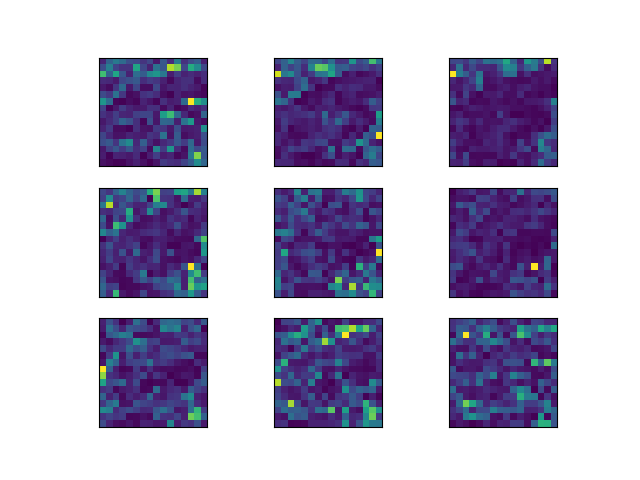
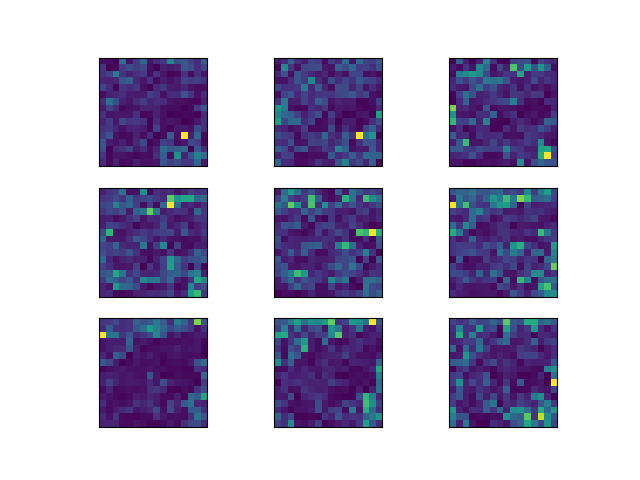
勾配角度の演算を変更

diff --git a/Question_61_70/my_answer_67.py b/Question_61_70/my_answer_67.py
@@ -15,7 +15,9 @@ gx[gx == 0] = 0.000001
 gy = gray2[2:H+2, 1:W+1] - gray2[0:H, 2:W+2]
 
 mag = np.sqrt(gx ** 2 + gy ** 2)
-ang = np.arctan(gy / gx) * (180/np.pi) + 90
+ang = np.arctan(gy / gx) * (180/np.pi)
+ang[ang < 0] += 360
+ang[ang > 180] -= 180
 
 # 3. 勾配角度を [0, 180]で9分割した値に量子化する。
 #    つまり、[0,20]には0、[20, 40]には1というインデックスを求める。

diff --git a/Question_61_70/my_answer_66.py b/Question_61_70/my_answer_66.py
@@ -12,7 +12,9 @@ gx[gx == 0] = 0.000001
 gy = gray2[2:H+2, 1:W+1] - gray2[0:H, 2:W+2]
 
 mag = np.sqrt(gx ** 2 + gy ** 2)
-ang = np.arctan(gy / gx) * (180/np.pi) + 90
+ang = np.arctan(gy / gx) * (180/np.pi)
+ang[ang < 0] += 360
+ang[ang > 180] -= 180
 
 for i in range(9):
     ang[np.where((ang >= i*20) & (ang < (i+1)*20), True, False)] = i
